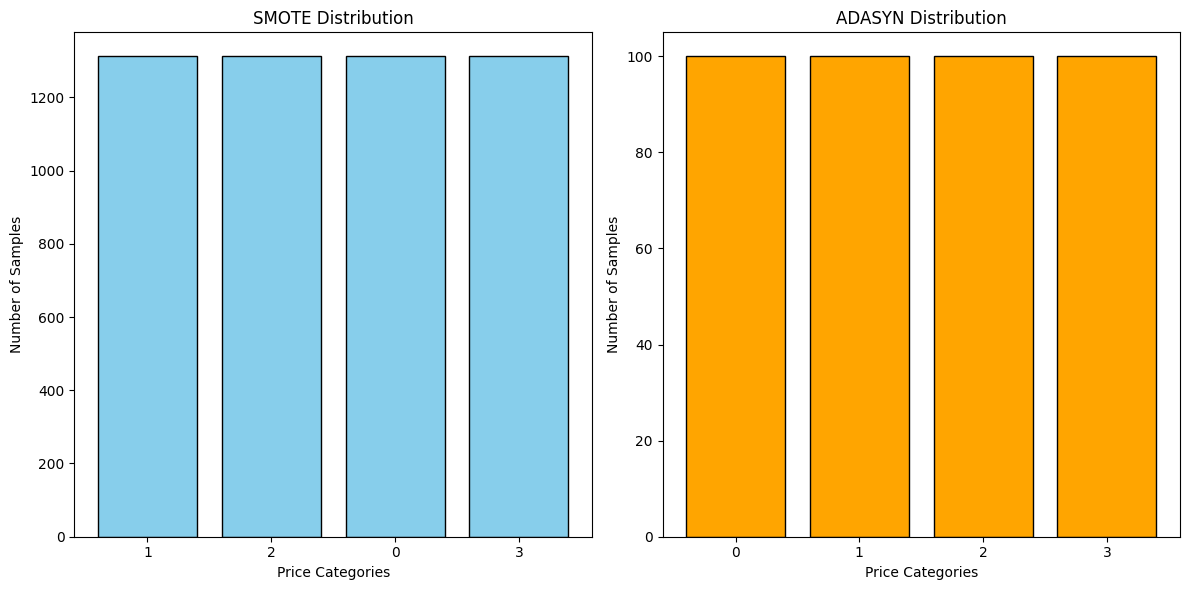
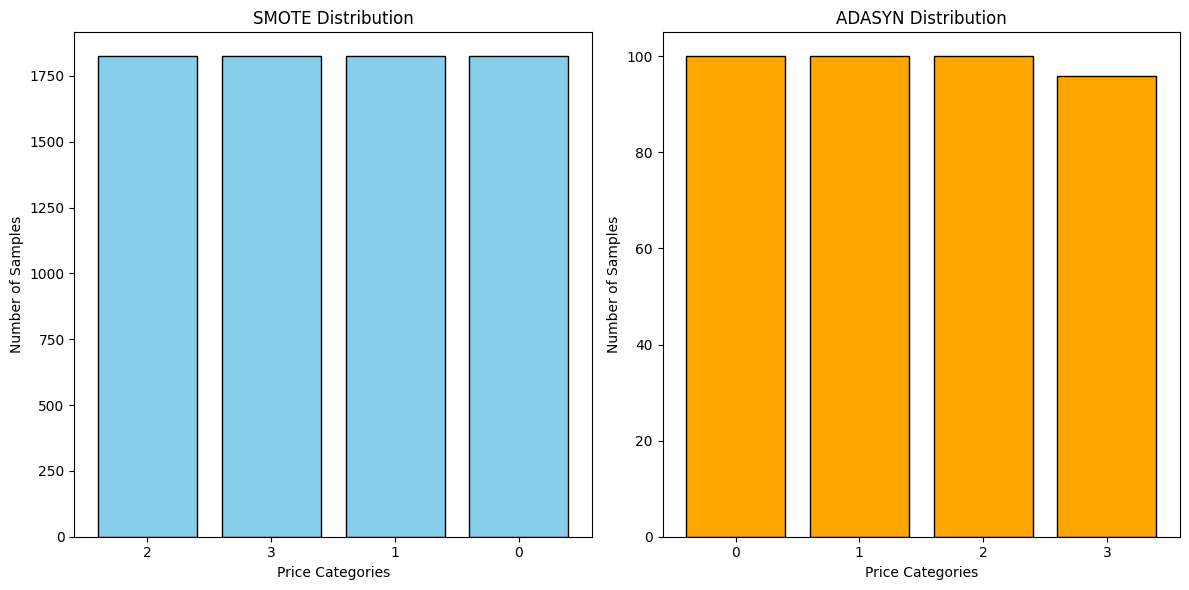
Q5/1 Done ig

diff --git a/A4/Q5/1.py b/A4/Q5/1.py
@@ -1,5 +1,4 @@
 import pandas as pd
-from sklearn.model_selection import train_test_split
 from imblearn.over_sampling import SMOTE, ADASYN
 from imblearn.under_sampling import RandomUnderSampler
 from sklearn.tree import DecisionTreeClassifier
@@ -13,10 +12,14 @@ train_data = pd.read_csv('../Q2/X_train_final_with_categories.csv')
 test_data = pd.read_csv('../Q2/X_test_final_with_categories.csv')
 
 X_train = train_data.drop(columns=['Price', 'Price_Category'])
-y_train = train_data['Price']
+y_train = train_data['Price_Category']
 
 X_test = test_data.drop(columns=['Price', 'Price_Category'])
-y_test = test_data['Price']
+y_test = test_data['Price_Category']
+
+if y_train.dtype == 'object':
+    y_train = y_train.astype('category').cat.codes
+    y_test = y_test.astype('category').cat.codes
 
 # Display initial distribution
 print("Original Training Set Distribution:")
@@ -26,27 +29,27 @@ print(y_train.value_counts())
 smote = SMOTE(random_state=42)
 X_train_smote, y_train_smote = smote.fit_resample(X_train, y_train)
 print("\nSMOTE Distribution:")
-print(y_train_smote.value_counts())
+print(pd.Series(y_train_smote).value_counts())
 
 # Introduce artificial imbalance
-undersampler = RandomUnderSampler(sampling_strategy={0: 100, 1: 100, 2: 100, 3: 50})
+undersampler = RandomUnderSampler(sampling_strategy={0: 100, 1: 100, 2: 100, 3: 50}, random_state=42)
 X_train_imbalanced, y_train_imbalanced = undersampler.fit_resample(X_train, y_train)
 
 print("\nImbalanced Training Set Distribution (Before ADASYN):")
-print(y_train_imbalanced.value_counts())
+print(pd.Series(y_train_imbalanced).value_counts())
 
 # Apply ADASYN on imbalanced data
 adasyn = ADASYN(random_state=42)
 X_train_adasyn, y_train_adasyn = adasyn.fit_resample(X_train_imbalanced, y_train_imbalanced)
 print("\nADASYN Distribution:")
-print(y_train_adasyn.value_counts())
+print(pd.Series(y_train_adasyn).value_counts())
 
 # Visualize distributions
 plt.figure(figsize=(12, 6))
 
 # SMOTE
 plt.subplot(1, 2, 1)
-smote_counts = y_train_smote.value_counts()
+smote_counts = pd.Series(y_train_smote).value_counts()
 plt.bar(smote_counts.index.astype(str), smote_counts.values, color='skyblue', edgecolor='black')
 plt.title("SMOTE Distribution")
 plt.xlabel("Price Categories")
@@ -54,7 +57,7 @@ plt.ylabel("Number of Samples")
 
 # ADASYN
 plt.subplot(1, 2, 2)
-adasyn_counts = y_train_adasyn.value_counts()
+adasyn_counts = pd.Series(y_train_adasyn).value_counts()
 plt.bar(adasyn_counts.index.astype(str), adasyn_counts.values, color='orange', edgecolor='black')
 plt.title("ADASYN Distribution")
 plt.xlabel("Price Categories")
@@ -78,10 +81,10 @@ y_pred_adasyn = dt_adasyn.predict(X_test)
 
 # Evaluate SMOTE model
 print("\nSMOTE Model Performance:")
-print(classification_report(y_test, y_pred_smote, target_names=['0', '1', '2', '3']))
+print(classification_report(y_test, y_pred_smote, target_names=['Low', 'Medium', 'High', 'Very High']))
 print(f"SMOTE Accuracy: {accuracy_score(y_test, y_pred_smote):.2f}\n")
 
 # Evaluate ADASYN model
 print("\nADASYN Model Performance:")
-print(classification_report(y_test, y_pred_adasyn, target_names=['0', '1', '2', '3']))
+print(classification_report(y_test, y_pred_adasyn, target_names=['Low', 'Medium', 'High', 'Very High']))
 print(f"ADASYN Accuracy: {accuracy_score(y_test, y_pred_adasyn):.2f}")
